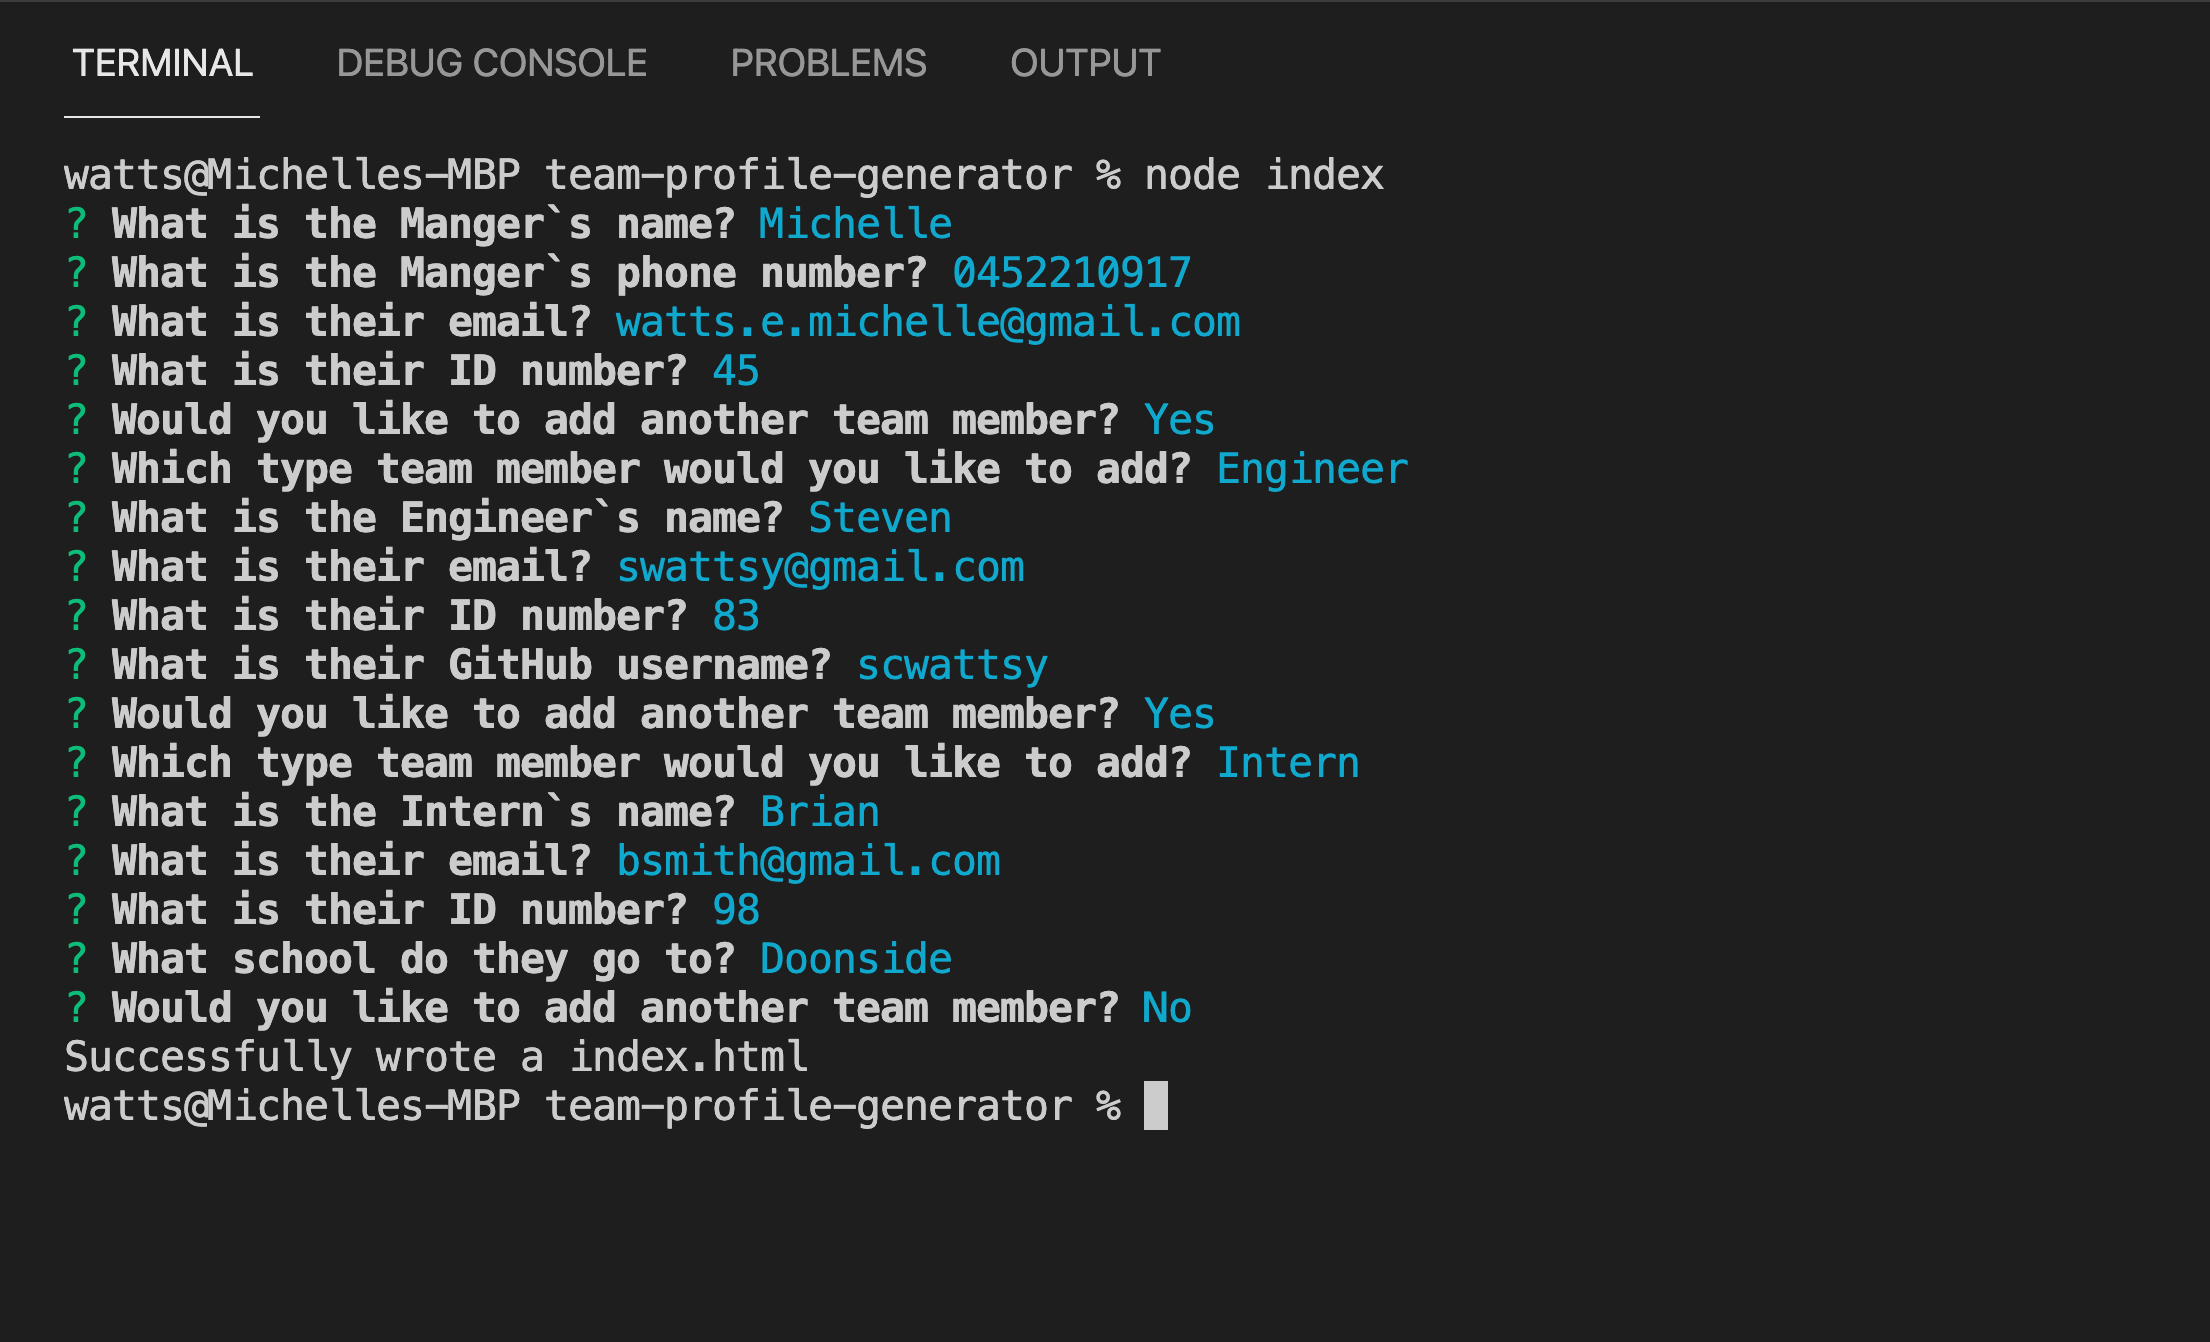
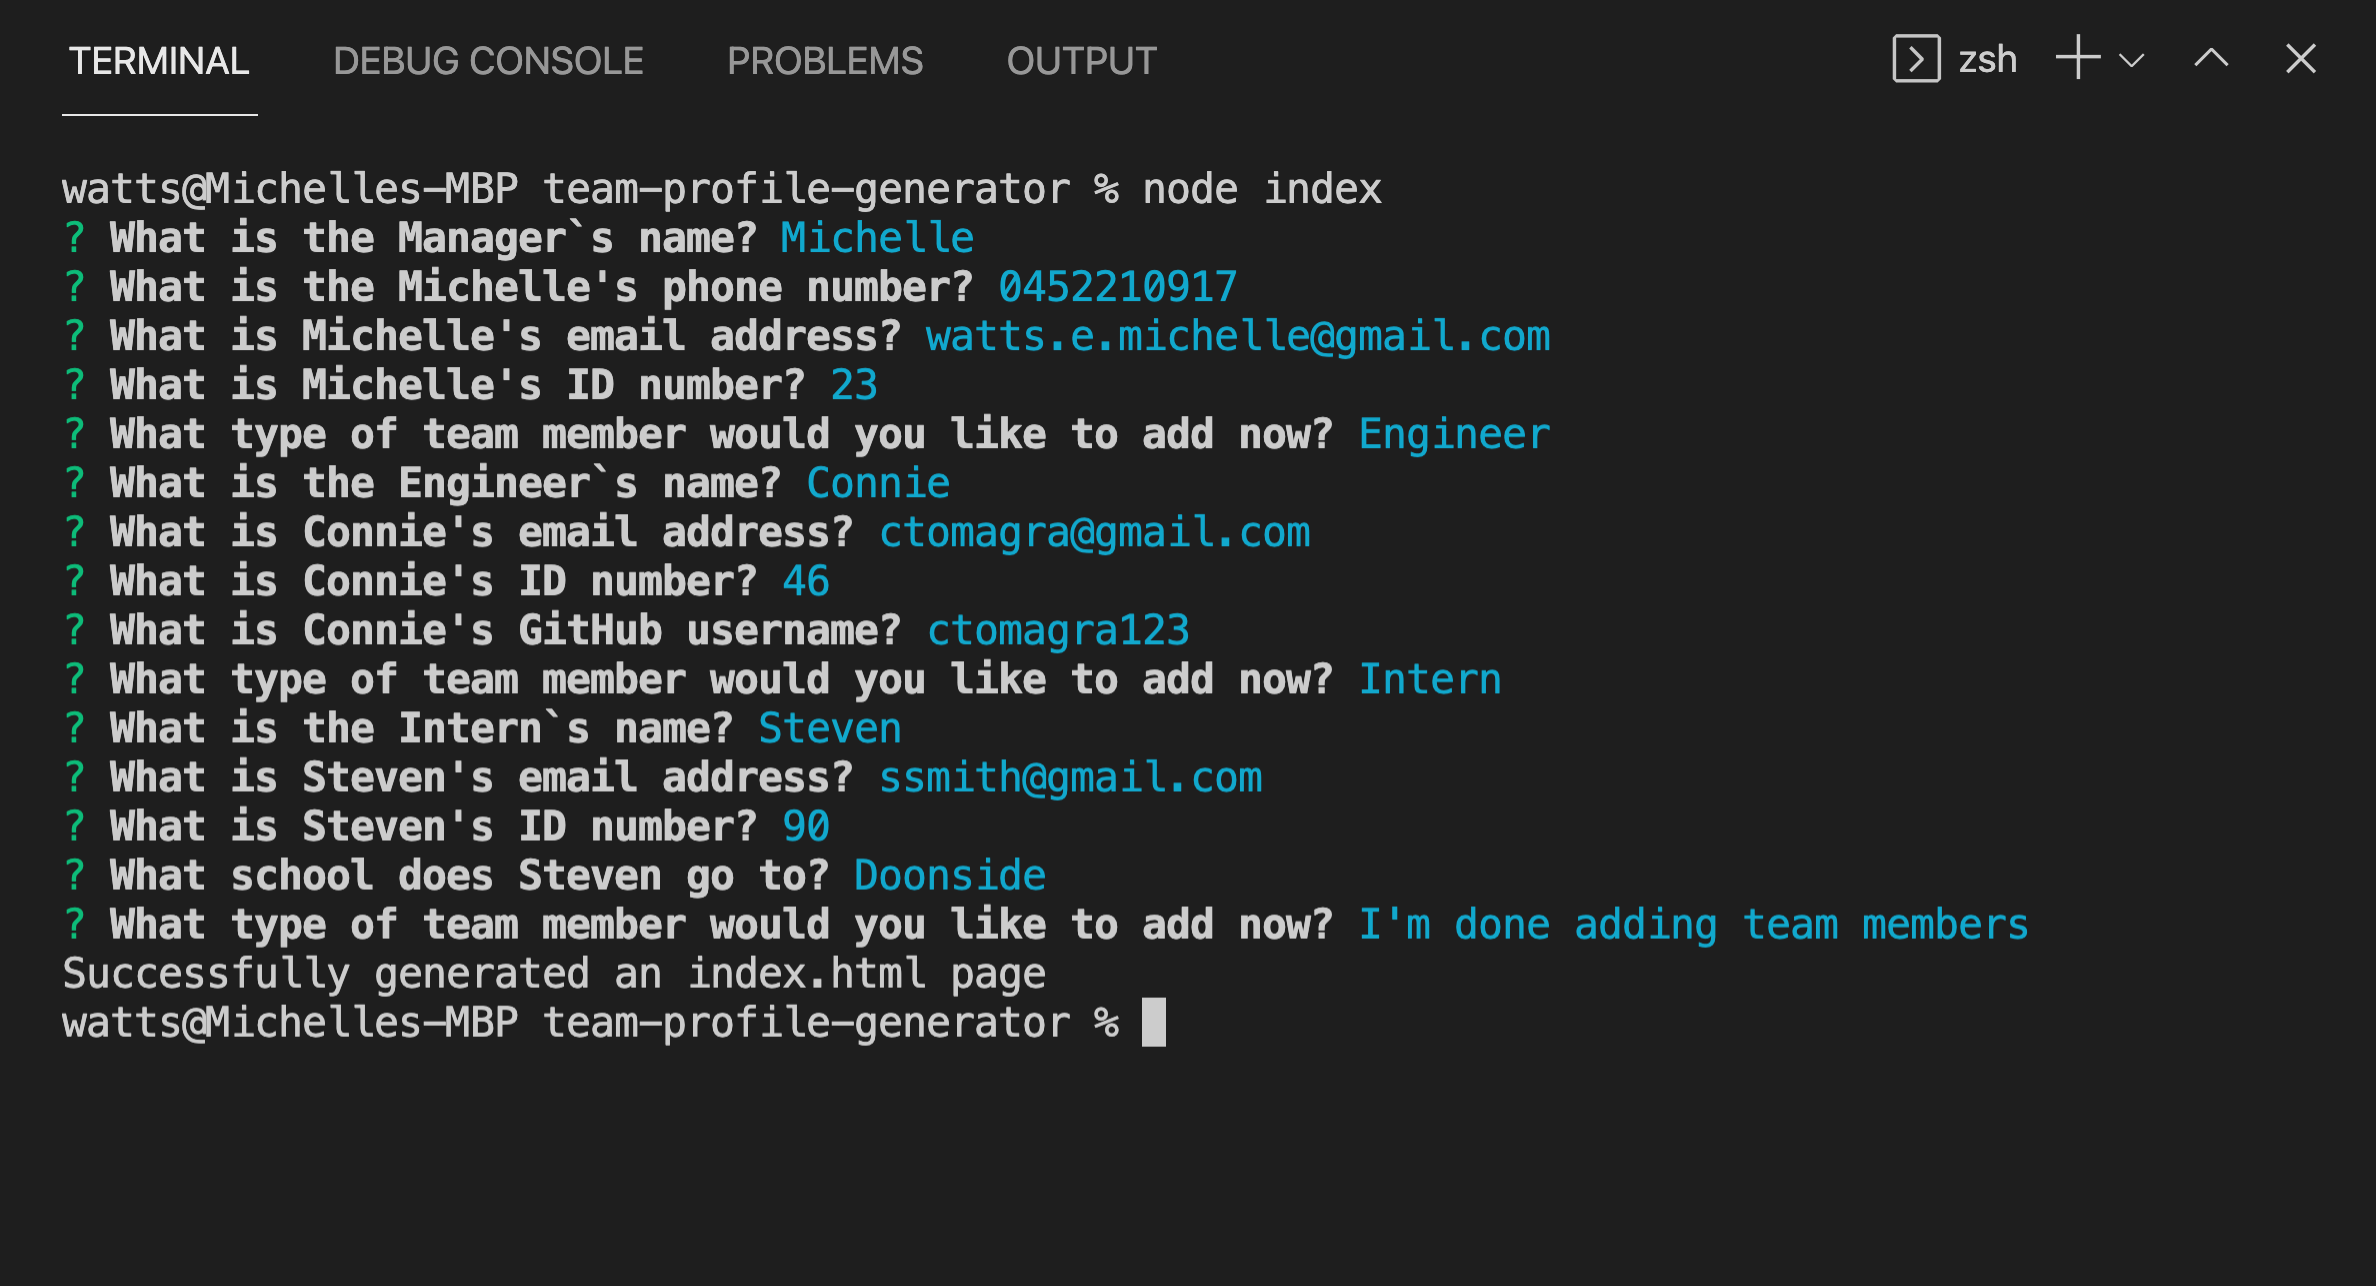
new screenshot

diff --git a/dist/index.html b/dist/index.html
@@ -31,7 +31,7 @@
         <div class="card-body">
           <h5 class="card-title">Michelle</h5>
           <p class="card-text">ID: 23</p>
-          <p class="card-text">Office number: 0452210910</p>
+          <p class="card-text">Office number: 0452210917</p>
           <p class="card-text">Email: <a href="mailto:watts.e.michelle@gmail.com">watts.e.michelle@gmail.com</a></p>
            <a href="mailto:watts.e.michelle@gmail.com" class="btn btn-primary">Email</a>
         </div>
@@ -40,23 +40,23 @@
         <h3><i class="fas fa-crow"></i> Engineer<h3>
        </div>  
         <div class="card-body">
-          <h5 class="card-title">Steven</h5>
-          <p class="card-text">ID: 45</p>
-          <p class="card-text">Email: <a href="mailto:swattsy@gmail.com">swattsy@gmail.com</a></p>
-          <p class="card-text">GitHub: <a target="_blank" href="https://github.com/swatts"> 
-          swatts</a></p>
-           <a href="mailto:swattsy@gmail.com" class="btn btn-primary">Email</a>
+          <h5 class="card-title">Connie</h5>
+          <p class="card-text">ID: 46</p>
+          <p class="card-text">Email: <a href="mailto:ctomagra@gmail.com">ctomagra@gmail.com</a></p>
+          <p class="card-text">GitHub: <a target="_blank" href="https://github.com/ctomagra123"> 
+          ctomagra123</a></p>
+           <a href="mailto:ctomagra@gmail.com" class="btn btn-primary">Email</a>
         </div>
       </div><div class="card">   
         <div class="card-header bg-warning">
         <h3><i class="fas fa-fish"></i> Intern<h3>
        </div>  
         <div class="card-body">
-          <h5 class="card-title">Connie</h5>
-          <p class="card-text">ID: 78</p>
-          <p class="card-text">School: Donnside</p>
-          <p class="card-text">Email: <a href="mailto:ctomagra@gmail.com">ctomagra@gmail.com</a></p>
-           <a href="mailto:ctomagra@gmail.com" class="btn btn-primary">Email</a>
+          <h5 class="card-title">Steven</h5>
+          <p class="card-text">ID: 90</p>
+          <p class="card-text">School: Doonside</p>
+          <p class="card-text">Email: <a href="mailto:ssmith@gmail.com">ssmith@gmail.com</a></p>
+           <a href="mailto:ssmith@gmail.com" class="btn btn-primary">Email</a>
         </div>
       </div>
         </div>
